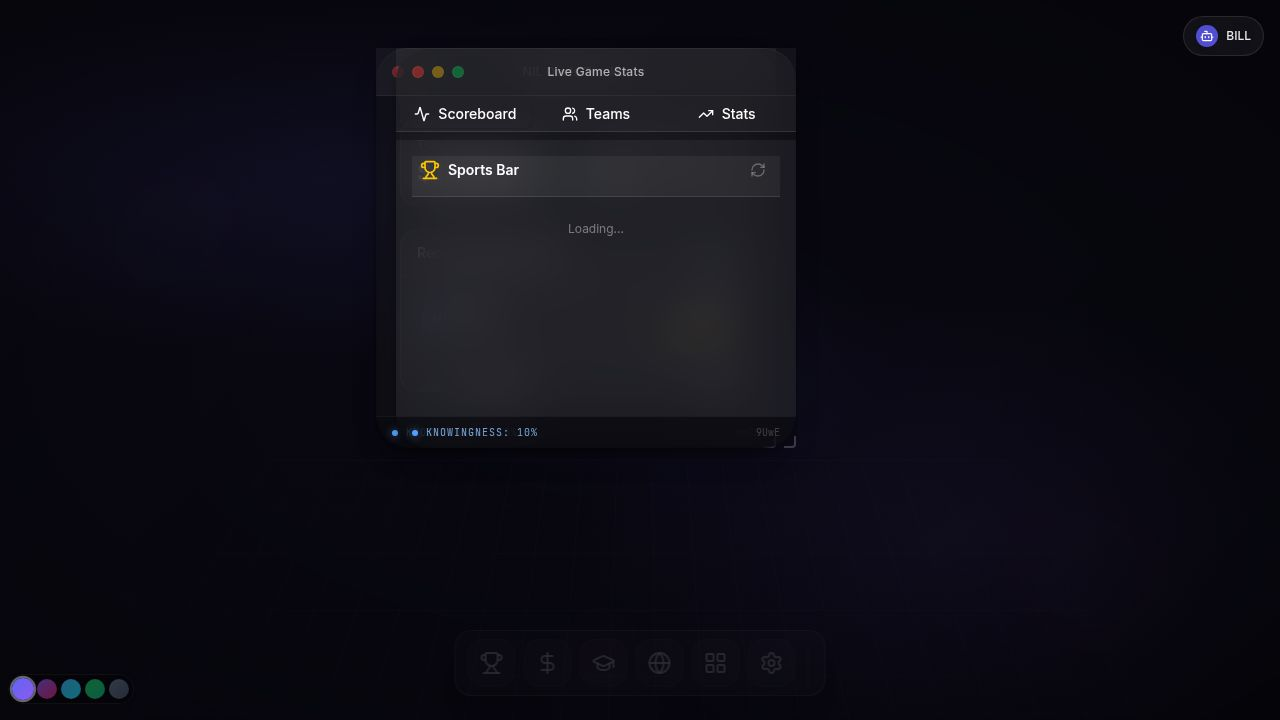
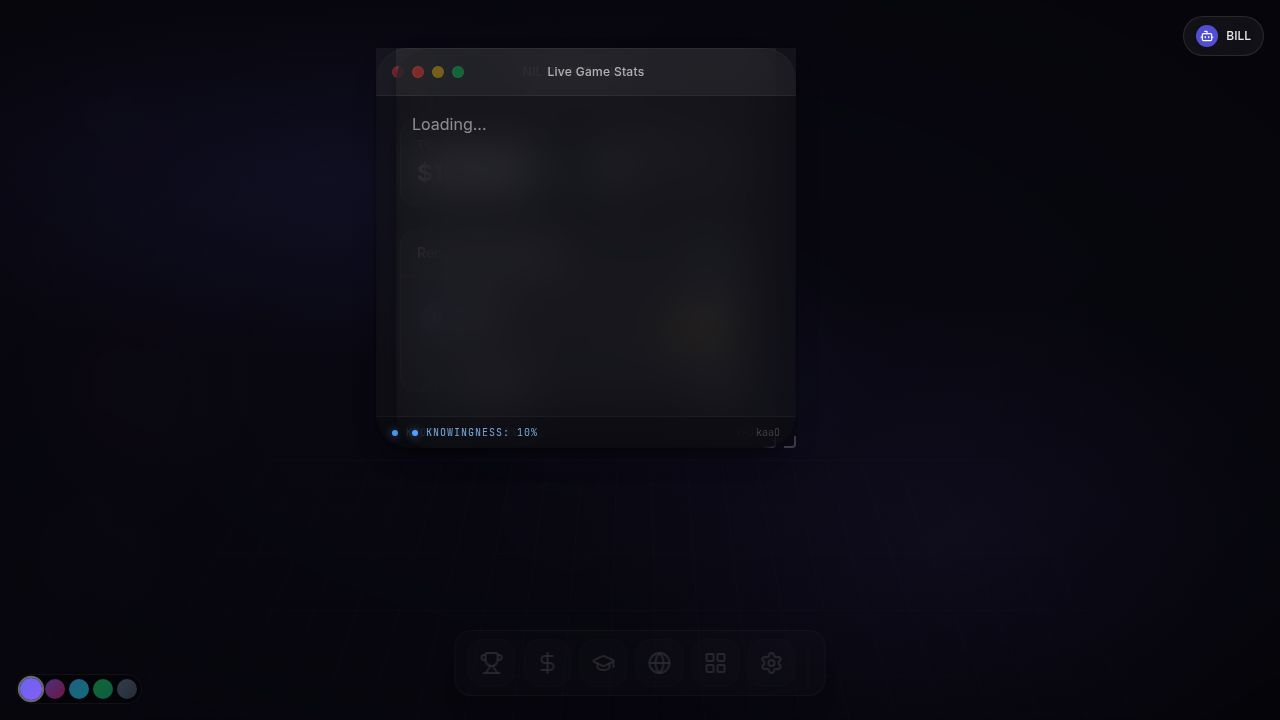
Improve spatial layer stability and visual appeal
Temporarily disable the spatial layer by default and implement WebGL availability checks with error handling in SpatialShell. Refactor SpatialScene with ambient lighting, gradient spheres, and floating orbs. Modify SpatialParticles to use useEffect for buffer geometry updates.

Replit-Commit-Author: Agent
Replit-Commit-Session-Id: 7aee8929-63fa-4c5f-ba75-cb8bfab51d00
Replit-Commit-Checkpoint-Type: intermediate_checkpoint
Replit-Commit-Event-Id: 2b66e387-909c-44b3-a055-fe368567a36a
Replit-Commit-Screenshot-Url: https://storage.googleapis.com/screenshot-production-us-central1/2fe256c9-3663-4185-ba6c-aaa250e8f5f1/7aee8929-63fa-4c5f-ba75-cb8bfab51d00/ZW7IQUR
Replit-Helium-Checkpoint-Created: true

diff --git a/client/src/spatial/SpatialScene.tsx b/client/src/spatial/SpatialScene.tsx
@@ -1,17 +1,120 @@
-import React from 'react';
-import { useFrame } from '@react-three/fiber';
+import React, { useRef, useMemo } from 'react';
+import { useFrame, useThree } from '@react-three/fiber';
+import { Float, GradientTexture } from '@react-three/drei';
+import * as THREE from 'three';
 import { BillOrb } from './BillOrb';
 import { CMFKAmbience } from './CMFKAmbience';
 import { SpatialParticles } from './SpatialParticles';
+import { useParcOSStore } from '@/state/store';
 
-export function SpatialScene() {
+function useSpatialCamera() {
+  const activeWorkspace = useParcOSStore((state) => state.activeWorkspace);
+  
+  const cameraTarget = useMemo(() => {
+    switch (activeWorkspace) {
+      case 'SPORTS':
+        return { position: new THREE.Vector3(0, 0, 12), rotation: new THREE.Euler(0, 0, 0) };
+      case 'NIL':
+        return { position: new THREE.Vector3(2, 1, 10), rotation: new THREE.Euler(0.05, 0.1, 0) };
+      case 'CLASSROOM':
+        return { position: new THREE.Vector3(-1, 0.5, 11), rotation: new THREE.Euler(0.02, -0.05, 0) };
+      default:
+        return { position: new THREE.Vector3(0, 0, 10), rotation: new THREE.Euler(0, 0, 0) };
+    }
+  }, [activeWorkspace]);
+
+  return cameraTarget;
+}
+
+function AmbientGradientSphere() {
+  const meshRef = useRef<THREE.Mesh>(null);
+  
+  useFrame((state) => {
+    if (meshRef.current) {
+      meshRef.current.rotation.y = state.clock.elapsedTime * 0.02;
+      meshRef.current.rotation.x = Math.sin(state.clock.elapsedTime * 0.01) * 0.05;
+    }
+  });
+
+  return (
+    <mesh ref={meshRef} scale={[50, 50, 50]} position={[0, 0, -20]}>
+      <sphereGeometry args={[1, 64, 64]} />
+      <meshBasicMaterial side={THREE.BackSide} transparent opacity={0.6}>
+        <GradientTexture
+          stops={[0, 0.3, 0.6, 1]}
+          colors={['#0a0a1a', '#1a1a2e', '#16213e', '#0f3460']}
+        />
+      </meshBasicMaterial>
+    </mesh>
+  );
+}
+
+function AmbientLighting() {
   return (
     <>
-      <ambientLight intensity={0.3} />
-      <pointLight position={[10, 10, 10]} intensity={0.5} />
+      <ambientLight intensity={0.15} color="#6366f1" />
+      <directionalLight 
+        position={[10, 10, 5]} 
+        intensity={0.1} 
+        color="#a5b4fc"
+      />
+      <pointLight 
+        position={[-5, 5, 5]} 
+        intensity={0.1} 
+        color="#818cf8" 
+        distance={30}
+      />
+    </>
+  );
+}
+
+function FloatingOrbs() {
+  return (
+    <>
+      <Float speed={0.5} rotationIntensity={0.2} floatIntensity={0.3}>
+        <mesh position={[-8, 4, -5]}>
+          <sphereGeometry args={[0.3, 32, 32]} />
+          <meshStandardMaterial 
+            color="#6366f1" 
+            emissive="#4f46e5" 
+            emissiveIntensity={0.5}
+            transparent
+            opacity={0.4}
+          />
+        </mesh>
+      </Float>
+      <Float speed={0.7} rotationIntensity={0.1} floatIntensity={0.4}>
+        <mesh position={[10, -3, -8]}>
+          <sphereGeometry args={[0.4, 32, 32]} />
+          <meshStandardMaterial 
+            color="#8b5cf6" 
+            emissive="#7c3aed" 
+            emissiveIntensity={0.4}
+            transparent
+            opacity={0.3}
+          />
+        </mesh>
+      </Float>
+    </>
+  );
+}
+
+export function SpatialScene() {
+  const cameraTarget = useSpatialCamera();
+  const isBillOpen = useParcOSStore((state) => state.isBillOpen);
+  
+  useFrame((state) => {
+    state.camera.position.lerp(cameraTarget.position, 0.02);
+  });
+
+  return (
+    <>
+      <AmbientLighting />
+      <AmbientGradientSphere />
       <CMFKAmbience />
-      <BillOrb />
       <SpatialParticles />
+      <FloatingOrbs />
+      <BillOrb />
     </>
   );
 }

diff --git a/client/src/spatial/SpatialShell.tsx b/client/src/spatial/SpatialShell.tsx
@@ -1,37 +1,88 @@
-import React, { Suspense } from 'react';
+import React, { Suspense, Component, ReactNode, useState, useEffect } from 'react';
 import { Canvas } from '@react-three/fiber';
 import { SpatialScene } from './SpatialScene';
 import { useParcOSStore } from '@/state/store';
 
+interface ErrorBoundaryState {
+  hasError: boolean;
+}
+
+class SpatialErrorBoundary extends Component<{ children: ReactNode }, ErrorBoundaryState> {
+  constructor(props: { children: ReactNode }) {
+    super(props);
+    this.state = { hasError: false };
+  }
+
+  static getDerivedStateFromError(): ErrorBoundaryState {
+    return { hasError: true };
+  }
+
+  componentDidCatch(error: Error, errorInfo: React.ErrorInfo) {
+    console.warn('[SpatialShell] WebGL error caught:', error.message);
+  }
+
+  render() {
+    if (this.state.hasError) {
+      return null;
+    }
+    return this.props.children;
+  }
+}
+
+function isWebGLAvailable(): boolean {
+  try {
+    const canvas = document.createElement('canvas');
+    const gl = canvas.getContext('webgl2') || canvas.getContext('webgl') || canvas.getContext('experimental-webgl');
+    return !!gl;
+  } catch (e) {
+    return false;
+  }
+}
+
 export function SpatialShell() {
   const spatialEnabled = useParcOSStore((state) => state.spatialEnabled);
+  const [webGLSupported, setWebGLSupported] = useState<boolean | null>(null);
 
-  if (!spatialEnabled) {
+  useEffect(() => {
+    setWebGLSupported(isWebGLAvailable());
+  }, []);
+
+  if (!spatialEnabled || webGLSupported === false) {
+    return null;
+  }
+
+  if (webGLSupported === null) {
     return null;
   }
 
   return (
-    <div
-      className="fixed inset-0 w-full h-full"
-      style={{ 
-        zIndex: 0,
-        pointerEvents: 'none'
-      }}
-    >
-      <Canvas
-        camera={{ position: [0, 0, 10], fov: 60 }}
-        dpr={[1, 2]}
-        gl={{ 
-          antialias: true, 
-          alpha: true,
-          powerPreference: 'high-performance'
+    <SpatialErrorBoundary>
+      <div
+        className="fixed inset-0 w-full h-full"
+        style={{ 
+          zIndex: 0,
+          pointerEvents: 'none'
         }}
-        style={{ background: 'transparent' }}
       >
-        <Suspense fallback={null}>
-          <SpatialScene />
-        </Suspense>
-      </Canvas>
-    </div>
+        <Canvas
+          camera={{ position: [0, 0, 10], fov: 60 }}
+          dpr={[1, 2]}
+          gl={{ 
+            antialias: true, 
+            alpha: true,
+            powerPreference: 'high-performance',
+            failIfMajorPerformanceCaveat: false
+          }}
+          style={{ background: 'transparent' }}
+          onCreated={({ gl }) => {
+            gl.setClearColor(0x000000, 0);
+          }}
+        >
+          <Suspense fallback={null}>
+            <SpatialScene />
+          </Suspense>
+        </Canvas>
+      </div>
+    </SpatialErrorBoundary>
   );
 }

diff --git a/client/src/spatial/SpatialParticles.tsx b/client/src/spatial/SpatialParticles.tsx
@@ -1,10 +1,11 @@
-import React, { useRef, useMemo } from 'react';
+import React, { useRef, useMemo, useEffect } from 'react';
 import { useFrame } from '@react-three/fiber';
 import * as THREE from 'three';
 import { useParcOSStore } from '@/state/store';
 
 export function SpatialParticles() {
   const pointsRef = useRef<THREE.Points>(null);
+  const geometryRef = useRef<THREE.BufferGeometry>(null);
   const userCMFK = useParcOSStore((state) => state.userCMFK);
 
   const particleCount = 200;
@@ -29,15 +30,25 @@ export function SpatialParticles() {
     return { positions, colors };
   }, []);
 
+  useEffect(() => {
+    if (geometryRef.current) {
+      geometryRef.current.setAttribute('position', new THREE.BufferAttribute(positions, 3));
+      geometryRef.current.setAttribute('color', new THREE.BufferAttribute(colors, 3));
+    }
+  }, [positions, colors]);
+
   useFrame((state, delta) => {
-    if (pointsRef.current) {
+    if (pointsRef.current && geometryRef.current) {
       pointsRef.current.rotation.y += delta * 0.02;
       
-      const positionArray = pointsRef.current.geometry.attributes.position.array as Float32Array;
-      for (let i = 0; i < particleCount; i++) {
-        positionArray[i * 3 + 1] += Math.sin(state.clock.elapsedTime + i) * 0.001;
+      const positionAttr = geometryRef.current.attributes.position;
+      if (positionAttr) {
+        const positionArray = positionAttr.array as Float32Array;
+        for (let i = 0; i < particleCount; i++) {
+          positionArray[i * 3 + 1] += Math.sin(state.clock.elapsedTime + i) * 0.001;
+        }
+        positionAttr.needsUpdate = true;
       }
-      pointsRef.current.geometry.attributes.position.needsUpdate = true;
     }
   });
 
@@ -45,16 +56,7 @@ export function SpatialParticles() {
 
   return (
     <points ref={pointsRef}>
-      <bufferGeometry>
-        <bufferAttribute
-          attach="attributes-position"
-          args={[positions, 3]}
-        />
-        <bufferAttribute
-          attach="attributes-color"
-          args={[colors, 3]}
-        />
-      </bufferGeometry>
+      <bufferGeometry ref={geometryRef} />
       <pointsMaterial
         size={size}
         vertexColors

diff --git a/client/src/App.tsx b/client/src/App.tsx
@@ -4,6 +4,7 @@ import { Canvas } from '@/components/Canvas';
 import { BillOverlay } from '@/components/BillOverlay';
 import { SpatialHUD } from '@/components/SpatialHUD';
 import { AnimatedBackground } from '@/components/AnimatedBackground';
+import { SpatialShell } from '@/spatial';
 import { initializeState, useParcOSStore } from '@/state/store';
 import { Toaster } from "@/components/ui/toaster";
 import { highlightEngine } from '@/services/highlight-engine';
@@ -68,6 +69,7 @@ function App() {
 
   return (
     <div className="w-full h-screen text-white overflow-visible font-sans selection:bg-indigo-500/30">
+      <SpatialShell />
       <AnimatedBackground />
       <Canvas />
       <SpatialHUD />

diff --git a/client/src/state/store.ts b/client/src/state/store.ts
@@ -35,7 +35,7 @@ export const useParcOSStore = create<ParcOSState>((set, get) => ({
   highlightedTeam: null,
   cinemaCardId: null,
   cinemaOriginalState: null,
-  spatialEnabled: true,
+  spatialEnabled: false,
 
   addCard: (card) => {
     set((state) => ({
